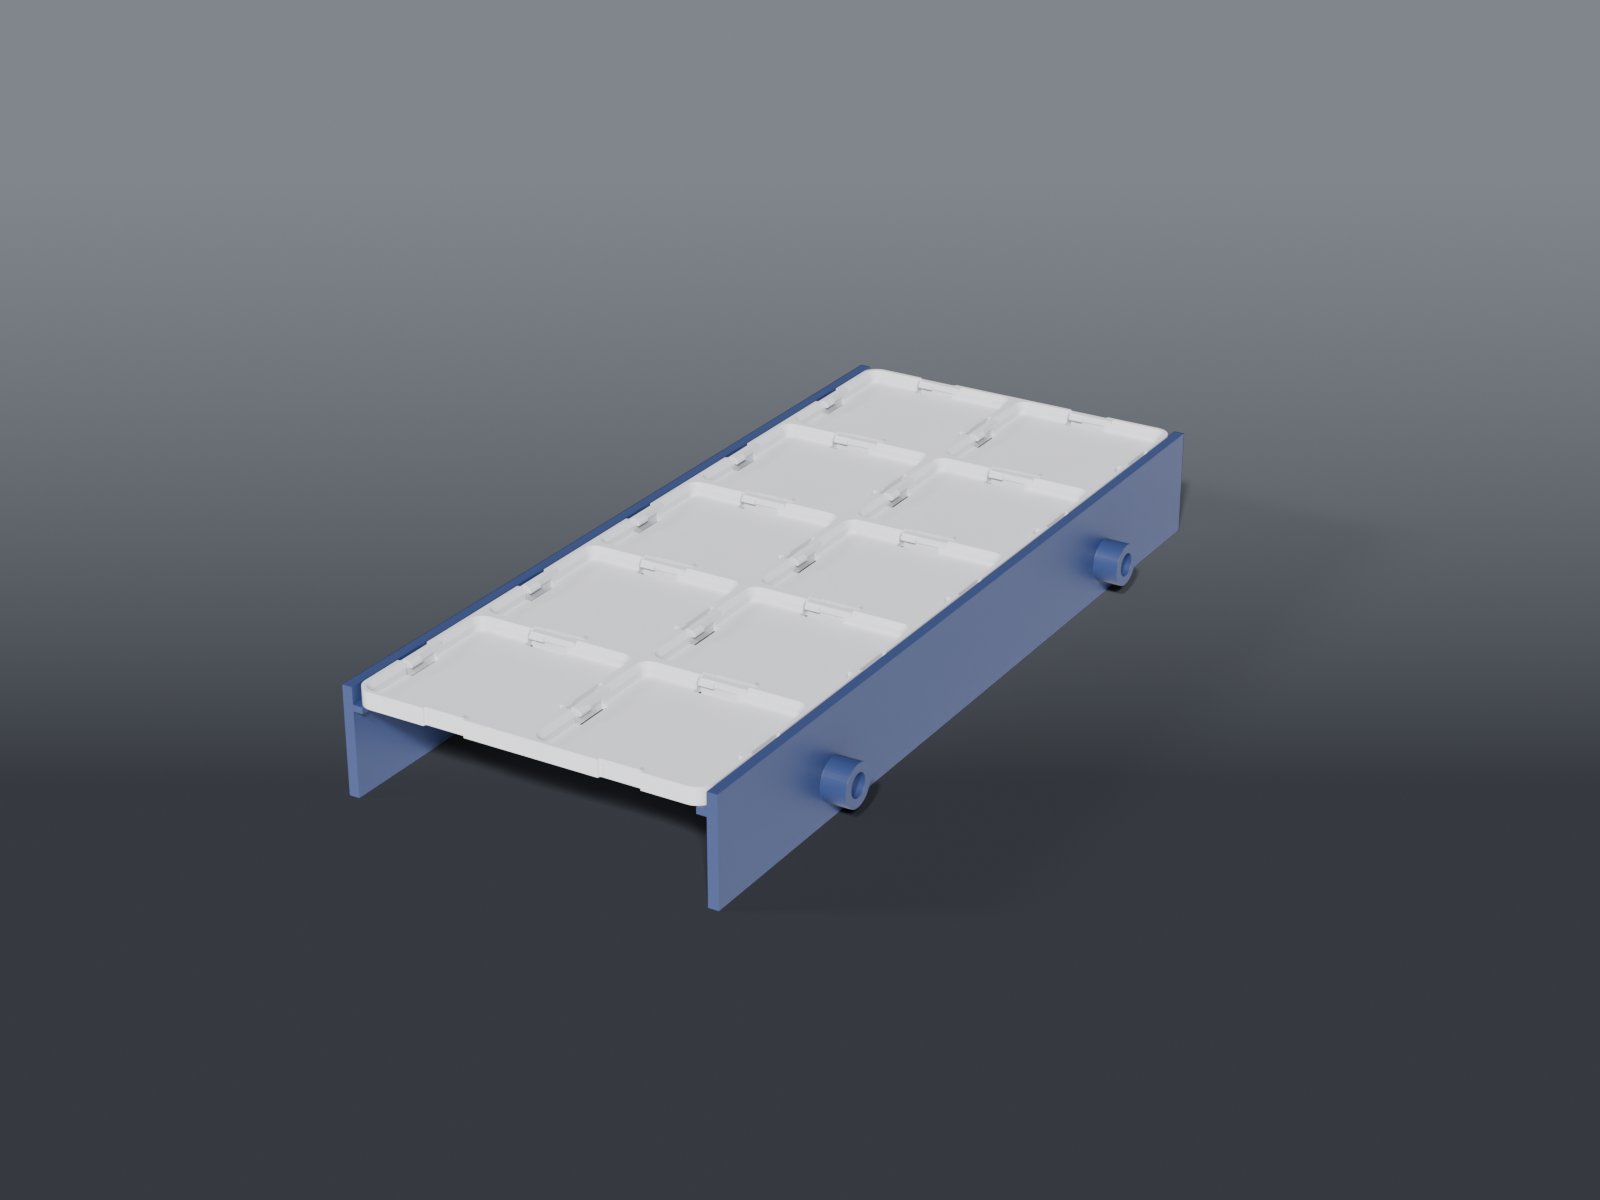
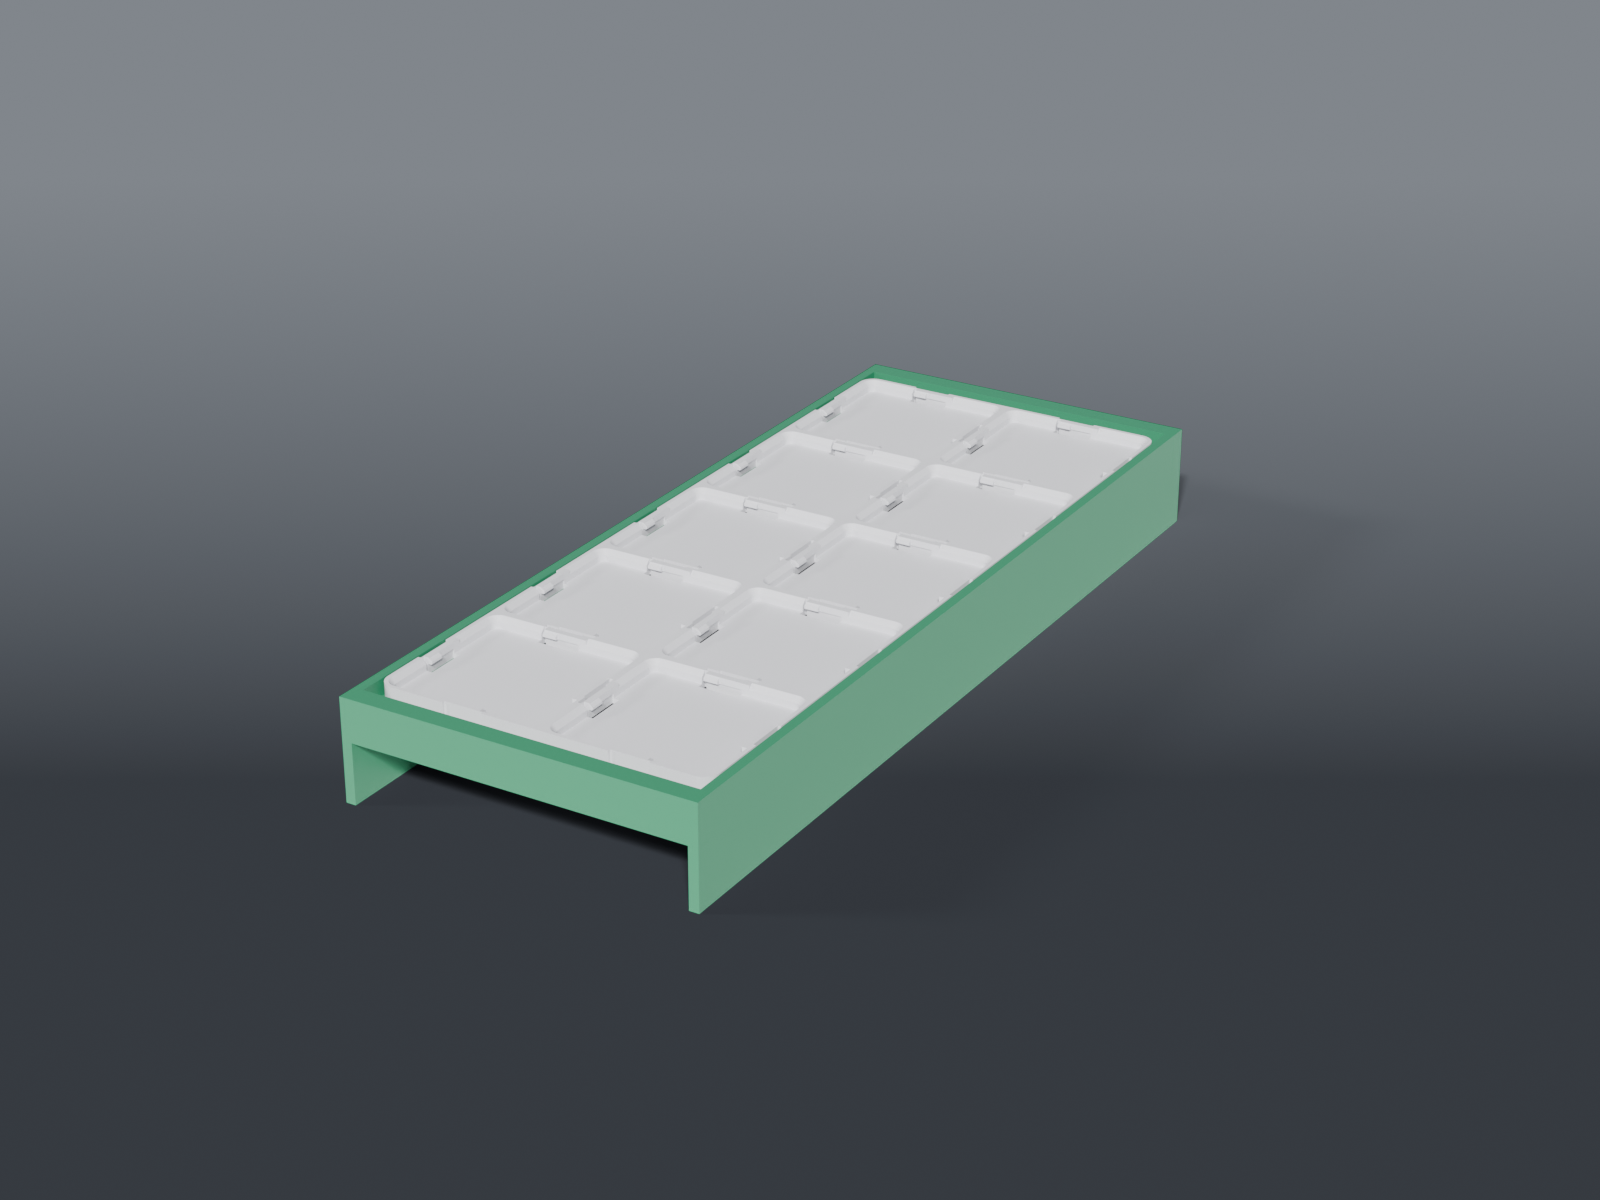
docs(owon-spm8104-tray): rewrite README + preview for the drop-over frame

Changed region(s): [[0.1875, 0.3083, 0.75, 0.7708], [0.2812, 0.37, 0.4688, 0.5242]]

diff --git a/owon-spm8104-tray/README.md b/owon-spm8104-tray/README.md
@@ -2,47 +2,37 @@
 
 ![OWON SPM8104 top tray](preview.png)
 
-A **magnet-free Clickfinity** tray that clamps onto the top of an [OWON SPM8104](https://www.owon.com.hk/) power-supply/DMM, so the mains cord and a spread of barrel adapters live on top of the unit instead of loose on the bench. Ten cells, 4 mm tall, and it lifts straight off when you back the screws out — nothing pierces the tray, nothing sticks to the instrument.
+A **magnet-free Clickfinity** tray that drops onto the top of an [OWON SPM8104](https://www.owon.com.hk/) power-supply/DMM, so the mains cord and a spread of barrel adapters live on top of the unit in swappable bins instead of loose on the bench. Ten cells, ~4 mm tall, **no hardware** — it drops on and lifts off.
 
-The SPM8104's top vents nowhere (rear fan only), so a solid plate over the lid is thermally free. A nice measured surprise: the datasheet says 82 mm wide, but the real lid is **84.30 mm** — which is *exactly* a 2-cell Clickfinity plate (84.00 mm), so it sits flush.
+The SPM8104's top vents nowhere (rear fan only), so a tray over the lid is thermally free. A measured surprise: the datasheet says 82 mm wide, but the real lid is **84.30 mm** — exactly a 2-cell Clickfinity plate (84.00 mm), so it sits flush.
 
 ## Parts
 
 | Part | File | Size | Print |
 |---|---|---|---|
-| **Tray** | `owon_tray_plate.scad` | 84 × 210 × 4 mm | ×1 — flat, latches up, **PETG** |
-| **Clamp rail** | `owon_tray_rail.scad` | 11 × 210 × 25.5 mm | ×2 — on the outer face, PETG or PLA |
+| **Frame** | `owon_tray_frame.scad` | 90 × 228 × 25.5 mm | ×1 — flat, walls down, no supports |
+| **Plate** | `owon_tray_plate.scad` | 84 × 210 × 4 mm | ×1 — flat, latches up, **PETG** |
 
-Shared dimensions live in `owon_tray_common.scad`. The tray is a stock 2×5 Clickfinity baseplate — the rails don't modify it, so you can reprint a different size later and reuse the rails.
+Shared dimensions live in `owon_tray_common.scad`.
+
+## How it mounts — no hardware
+
+The frame **drops over the top** of the unit and is held passively:
+
+- **Side walls** hug the case sides (20 mm deep, clearing the low side vents) → can't slide off sideways.
+- **Shallow front/back lips** (5 mm) hook the top edges, clearing the front display and rear fan → can't slide off lengthwise.
+- **Gravity** does the rest — it's a tray of adapters; nothing lifts it.
+
+No clamp, no screws, no inserts. (Earlier revisions had a screw clamp — pointless for this load, and it didn't even work: a screw threaded into a wall can't clamp that same wall.)
 
 ## Why two parts
 
-The tray must print **latches-up** (that's what makes the Clickfinity spring tongues print solid). The clamp skirts point **down** the case sides. Opposite orientations — so they're separate parts, each printed in its best position, screwed together at assembly. No unsupported bridges.
-
-## Why a screw clamp (not a snap-on)
-
-PETG creeps under sustained tension: a spring clamp is tight in week one and loose by month three — the exact failure the Clickfinity latch was designed around. A screw is a positive grip with **no standing load**, and it absorbs the slop between a datasheet number and your actual case.
-
-## Hardware
-
-- **4× M4 brass heat-set inserts** (one per boss)
-- **4× M4 machine screws**, ~16–20 mm
-- **4× rubber/felt dots** for the screw tips (optional — protects the case finish)
+The plate must print **latches-up** so the Clickfinity spring tongues come out solid; the frame walls print **down**. There's no single orientation where both are right, so they print separately. Since the plate is permanent (you swap *bins*, not the plate), just **bond it into the frame** at assembly.
 
 ## Assembly
 
-1. Heat an M4 insert into each of the four rail bosses, from the **outer** face.
-2. Thread an M4 screw through each; stick a felt dot on the tip.
-3. Back the screws out, set the tray on the lid, drop the two rails over the tray's side edges (the plate rests on the inner lip, captured by the upstand).
-4. Snug all four screws evenly to center the unit and clamp the case.
-
-## Fit — verify before printing the tray
-
-The rails carry the two unknowns; **print the pair first** (~30 min) and check them on the unit before committing ~3 h to the tray:
-
-- **Side vents.** Skirts drop 20 mm. If your unit's side vent slots start higher than ~25 mm from the top edge, shorten `SKIRT_D` in `owon_tray_common.scad`.
-- **Case width.** Built for the measured 84.30 mm with 0.2 mm/side slack. If yours is tighter, bump `CASE_CLR`.
-- **Insert diameter.** `HS_D` defaults to 5.60 mm (common M4 heat-set). Verify against your inserts and adjust — too big spins, too small won't seat square.
+1. Drop the plate into the frame — it rests on the frame's inner ledge.
+2. Run a bead of CA or plastic cement around the seam. One solid unit.
 
 ## Clickfinity
 
@@ -51,18 +41,22 @@ The tray uses the magnet-free [Clickfinity latch generator](https://github.com/I
 ## Source
 
 ```sh
+openscad -o owon_tray_frame.stl --export-format binstl owon_tray_frame.scad
 openscad -o owon_tray_plate.stl --export-format binstl owon_tray_plate.scad
-openscad -o owon_tray_rail.stl  --export-format binstl owon_tray_rail.scad   # print 2
 ```
 
 ## Recommended print settings
 
 | Setting | Value |
 |---|---|
-| Material | **Tray: PETG** (Clickfinity latches creep in PLA). Rails: PETG or PLA. |
-| Orientation | Tray flat, latches up. Rail on its outer skirt face, lip up. No supports. |
+| Material | **Plate: PETG** (Clickfinity latches creep in PLA). Frame: PETG or PLA. |
+| Orientation | Plate flat, latches up. Frame flat, walls down. No supports either part. |
 | Layer height | 0.2 mm |
-| Walls | Tray: Arachne, ≥ 2 loops (thin tongues). Rails: 3+. |
-| Cooling | Tray: modest — the tongues need layer bonding; don't blast overhang/bridge fan. |
-| Infill | 15 % (tray) / 20–30 % (rails) |
+| Walls | Plate: Arachne, ≥ 2 loops (thin tongues). Frame: 3+. |
+| Cooling | Plate: modest — the tongues need layer bonding; don't blast overhang/bridge fan. |
+| Infill | 15 % |
 | Supports | None |
+
+## Fit
+
+Built for the measured unit (84.30 mm wide, ~225 mm deep top, side vents low on the case) and confirmed on it with print gauges. If your unit differs, the top three knobs in `owon_tray_common.scad` cover it: `CASE_W` (width), `MOUNT_L` (front-to-back length), `SKIRT_D` (side-wall depth vs. your vents).
